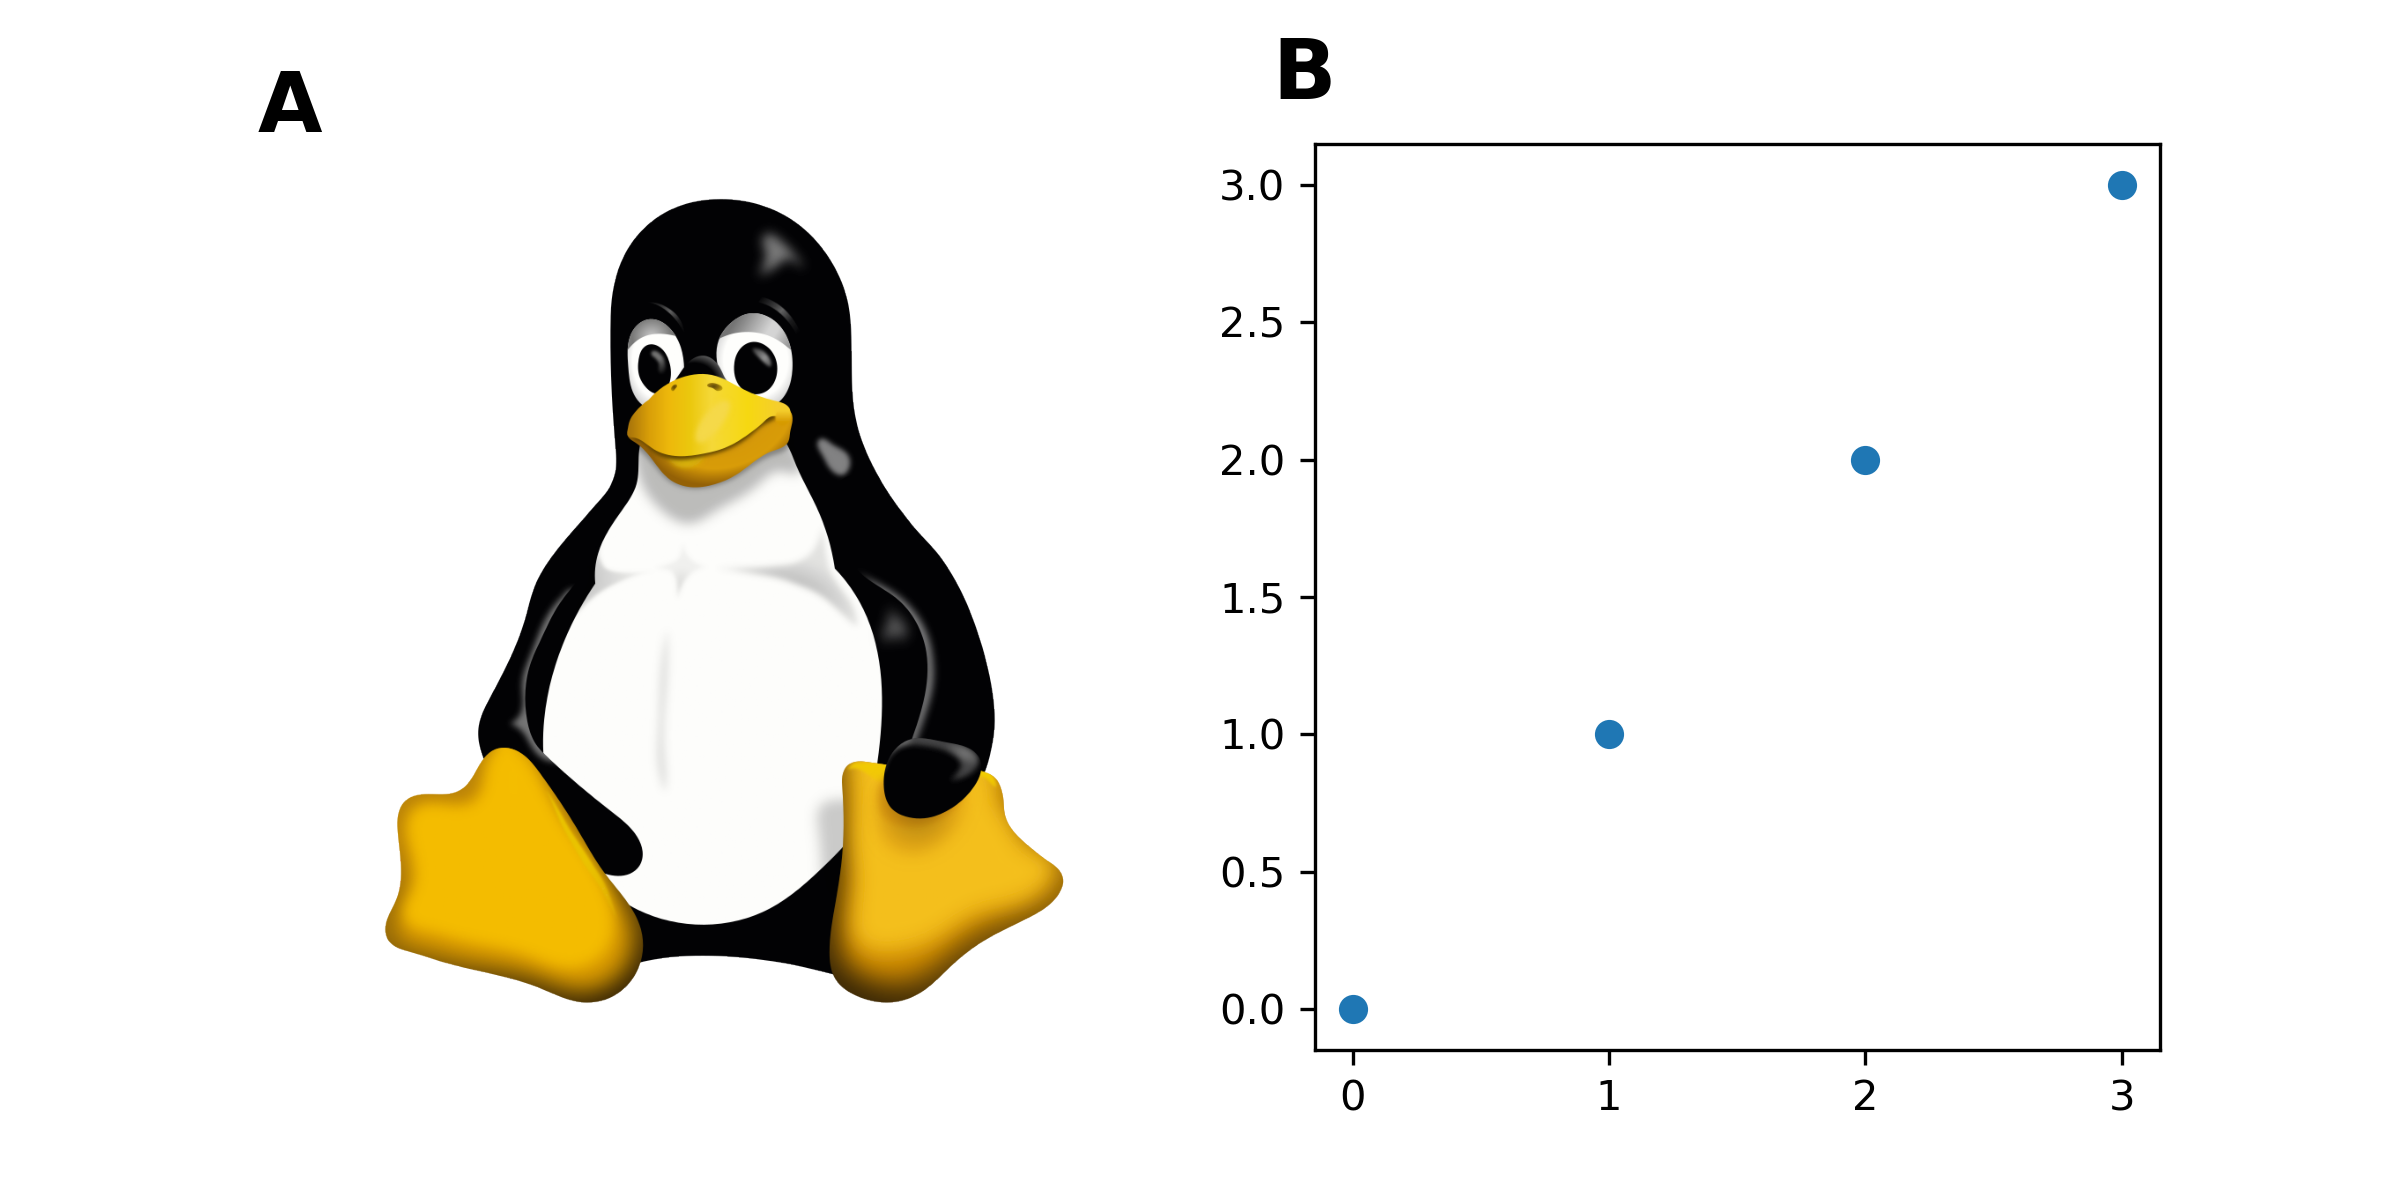
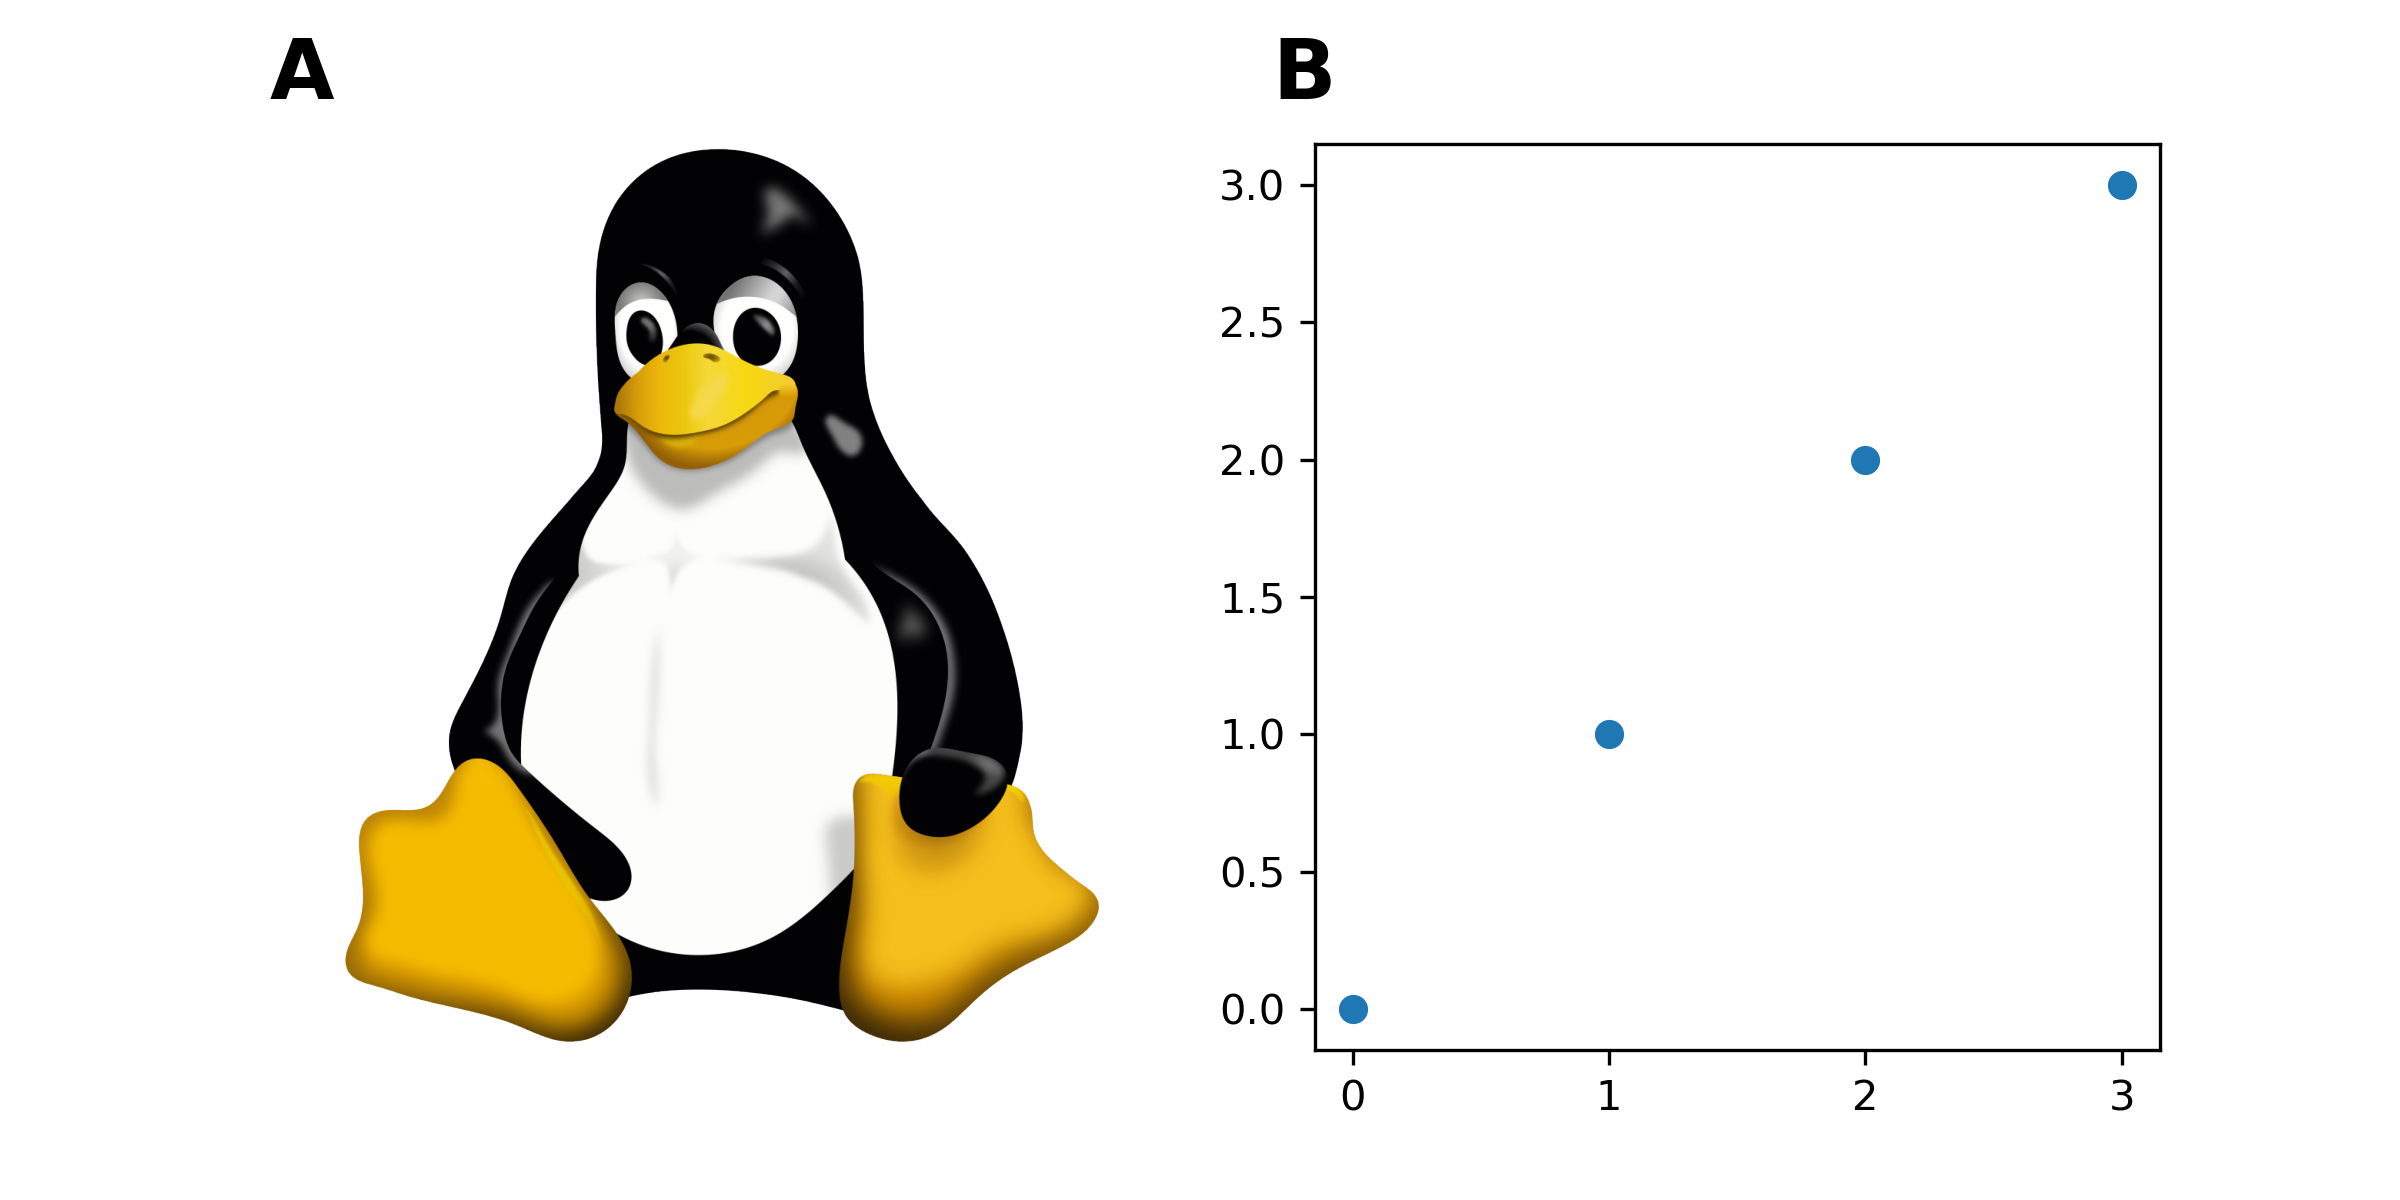
Updated paper figure post.

Changed region(s): [[0.125, 0.1233, 0.4688, 0.8633], [0.0938, 0.0308, 0.1562, 0.1233]]

diff --git a/public/coding/paper-figures.html b/public/coding/paper-figures.html
@@ -69,22 +69,21 @@ I prepare the spacial arrangement and plot the data within one script:
 <div class="org-src-container">
 <pre class="src src-python"><span style="color: #5EC4FF;">import</span> matplotlib.pyplot <span style="color: #5EC4FF;">as</span> plt
 <span style="color: #41505E;"># </span><span style="color: #41505E;">create the figure</span>
-<span style="color: #718CA1;">fig</span>, <span style="color: #718CA1;">ax</span> = plt.subplots(<span style="color: #E27E8D; font-weight: bold;">1</span>, <span style="color: #E27E8D; font-weight: bold;">2</span>, figsize=(<span style="color: #E27E8D; font-weight: bold;">8</span>,<span style="color: #E27E8D; font-weight: bold;">4</span>))
+<span style="color: #718CA1;">fig</span>, <span style="color: #718CA1;">ax</span> = plt.subplots(<span style="color: #E27E8D; font-weight: bold;">1</span>, <span style="color: #E27E8D; font-weight: bold;">2</span>, figsize=(<span style="color: #E27E8D; font-weight: bold;">8</span>,<span style="color: #E27E8D; font-weight: bold;">4</span>), dpi=<span style="color: #E27E8D; font-weight: bold;">300</span>)
 <span style="color: #41505E;"># </span><span style="color: #41505E;">plot something on the second panel</span>
 x = <span style="color: #5EC4FF;">list</span>(<span style="color: #5EC4FF;">range</span>(<span style="color: #E27E8D; font-weight: bold;">4</span>))
 ax[<span style="color: #E27E8D; font-weight: bold;">1</span>].scatter(x, x)
 <span style="color: #41505E;"># </span><span style="color: #41505E;">save the figure (for now)</span>
-plt.savefig(<span style="color: #539AFC;">"my-path-to-the-figure.png"</span>, dpi=<span style="color: #E27E8D; font-weight: bold;">300</span>)
+plt.savefig(<span style="color: #539AFC;">"my-path-to-the-figure.png"</span>)
 </pre>
 </div>
 <p>
-The <code>figsize</code> argument in <code>plt.subplots</code> controls the width and the height of the figure, each in inches.
-The <code>dpi</code> argument in <code>plt.savefig</code> controls the number of dots (pixels) per inch.
+The <code>figsize</code> argument in <code>plt.subplots</code> controls the width and the height of the figure, each in inches, and the <code>dpi</code> argument controls the number of dots (pixels) per inch.
 Combining the two settings, the resolution of the output figure should be \(2400 \times 1200\) pixels.
 </p>
 
 
-<figure id="orgaef4f7e">
+<figure id="org5d19f77">
 <img src="../../misc/coding/paper-figures-1.png" alt="paper-figures-1.png">
 
 </figure>
@@ -95,12 +94,19 @@ Combining the two settings, the resolution of the output figure should be \(2400
 <h2 id="orgcef5688"><span class="section-number-2">2.</span> Generating a schematics with Inkscape</h2>
 <div class="outline-text-2" id="text-2">
 <p>
-Before drawing in Inkscape, we must set the page&rsquo;s size in the <code>File &gt;&gt; Document properties...</code> menu.
-In our spatial arrangement, the height and the width of the schematics should be half of those of the whole figure.
-The white space around the figure takes up about 20% of the width and height, so the page&rsquo;s width and height in inches should be \(8 \times 0.8 / 2 = 3.2\).
+Before drawing in Inkscape, we must get the schematics&rsquo; size from Python:
+</p>
+<div class="org-src-container">
+<pre class="src src-python"><span style="color: #718CA1;">bbox</span> = ax[<span style="color: #E27E8D; font-weight: bold;">0</span>].get_tightbbox(fig.canvas.get_renderer())
+<span style="color: #5EC4FF;">print</span>(bbox.x1, bbox.y1) <span style="color: #41505E;"># </span><span style="color: #41505E;">the height (x1) and the width (y1)</span>
+</pre>
+</div>
+
+<p>
+Now we set the page&rsquo;s size in the <code>File &gt;&gt; Document properties...</code> menu, using <code>custom</code> format in unit of <code>px</code> (pixel), and then filling in the height and width and make sure the orientation is correct.
 How to draw in Inkscape is beyond the scope of this post, but Inkscape includes a wonderful, interactive tutorial in the <code>Help &gt;&gt; Tutorials</code> menu.
 After finishing the schematics, save it as an <code>.svg</code> file for future modification, and export to a <code>.png</code> file to merge with the figure from Python.
-To export to PNG, find the <code>File &gt;&gt; Export...</code> menu and set the DPI to be 300 before exporting.
+To export to PNG, find the <code>File &gt;&gt; Export...</code> menu and within the prompted sidebar, choose the <code>page</code> menu and export with the default DPI (such that the width and height in <code>px</code> is correct).
 </p>
 </div>
 </section>
@@ -113,7 +119,7 @@ Now the read the PNG file exported from Inkscape back to Python and plot in the 
 </p>
 <div class="org-src-container">
 <pre class="src src-python"><span style="color: #718CA1;">img</span> = plt.imread(<span style="color: #539AFC;">"my-path-to-the-inscape-image.png"</span>)
-ax[<span style="color: #E27E8D; font-weight: bold;">0</span>].imshow(img) <span style="color: #41505E;"># </span><span style="color: #41505E;">you may try aspect="auto"</span>
+ax[<span style="color: #E27E8D; font-weight: bold;">0</span>].imshow(img)
 <span style="color: #41505E;"># </span><span style="color: #41505E;">hide the x and y axis</span>
 ax[<span style="color: #E27E8D; font-weight: bold;">0</span>].axis(<span style="color: #539AFC;">"off"</span>)
 </pre>
@@ -139,7 +145,7 @@ The last thing is to automatically add the labels A, B, C&#x2026; to the panels,
 And don&rsquo;t forget to save the figure:
 </p>
 <div class="org-src-container">
-<pre class="src src-python">plt.savefig(<span style="color: #539AFC;">"my-path-to-the-figure.png"</span>, dpi=<span style="color: #E27E8D; font-weight: bold;">300</span>)
+<pre class="src src-python">plt.savefig(<span style="color: #539AFC;">"my-path-to-the-figure.png"</span>)
 </pre>
 </div>
 <p>
@@ -147,14 +153,8 @@ Now we can place both the SVG file from Inkscape and the Python under version co
 There&rsquo;s no need to place the generated PNG file under version control, because we&rsquo;ll get it back once we run the Python code again.
 </p>
 
-<p>
-One issue of this workflow is that the label of the schematics panel is not placed at the same level of other panel labels.
-This is because the size we used in the Inkscape section, \(3.2 \times 3.2\) inches, does not exactly match the size of the panel.
-To solve this, we can either (1) fine-tune the size in Inkscape or (2) set <code>aspect="auto"</code> when calling <code>ax[0].imshow()</code>, or (3) adjust the whitespace between subplots using <code>plt.subplots_adjust()</code>.
-</p>
 
-
-<figure id="org9feeaaf">
+<figure id="org87d7e82">
 <img src="../../misc/coding/paper-figures-2.png" alt="paper-figures-2.png">
 
 </figure>
@@ -167,6 +167,7 @@ To solve this, we can either (1) fine-tune the size in Inkscape or (2) set <code
 <p>
 <code>matplotlib</code> also supports more sophisticated spacial arrangement.
 See the official documentation of its <a href="https://matplotlib.org/stable/api/_as_gen/matplotlib.gridspec.GridSpec.html#matplotlib.gridspec.GridSpec">GridSpec</a> module.
+We can also create an inset panel within a panel with <code>ax[0].inset_axes()</code>, see the official Documentation <a href="https://matplotlib.org/stable/api/_as_gen/matplotlib.axes.Axes.inset_axes.html">here</a>.
 </p>
 </div>
 </section>
